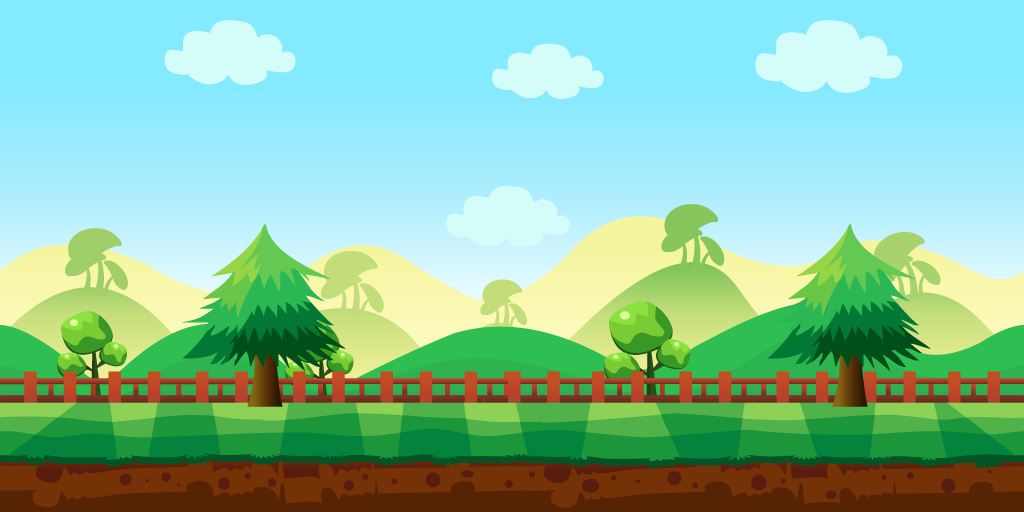
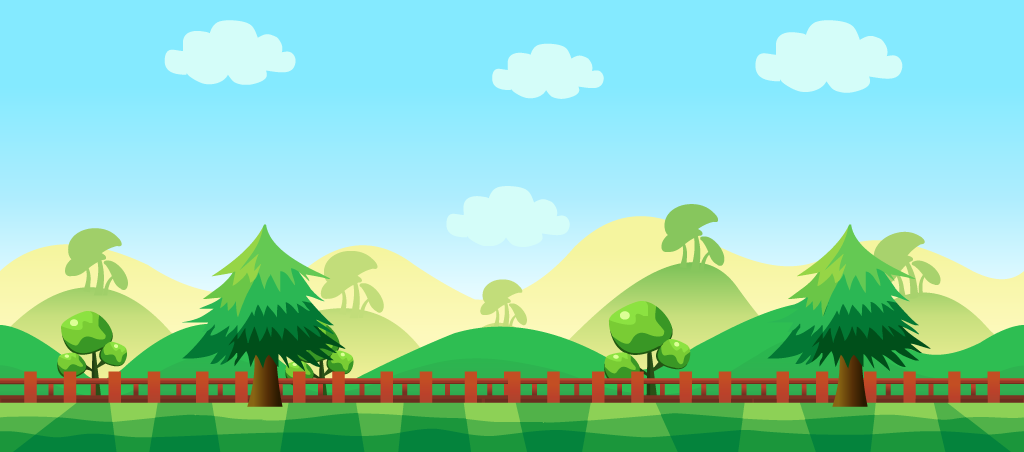
Fixed ground, fixed robot body size physics.

diff --git a/states/play.js b/states/play.js
@@ -1,0 +1,115 @@
+Play = function(game) {
+  this.game = game;
+  // this.boy = new Player(game);
+  // this.girl = new Girl(game);
+  // this.bg = null;
+  // this.ground = null;
+
+  this.platforms = null;
+  this.robot = null;
+  this.cursors = null;
+  this.score = 0;
+  this.scoreText = null;
+  this.stars = null;
+  this.bg = null;
+  this.ground = null;
+  this.diamond = null;
+}
+
+Play.prototype = {
+  create: function() {
+    
+    // this.bg = this.game.add.tileSprite(0, 0, 438, 136, 'background');
+    // this.ground = this.game.add.tileSprite(0, 125, 438, 44, 'ground');
+    // this.game.physics.arcade.enable(this.ground);
+    // this.ground.body.allowGravity = false;
+    // this.ground.body.immovable = true;
+    // this.ground.body.setSize(this.ground.width, this.ground.height - 10, 0, 10);
+    
+  this.game.physics.startSystem(Phaser.Physics.ARCADE);
+  this.game.input.maxPointers = 1;
+  this.bg = this.game.add.tileSprite(0, 0, 1024, 512, 'bg');
+  this.ground = this.game.add.tileSprite(0, this.game.world.height - 60, 1024, 60, 'ground');
+  this.game.physics.enable(this.ground);
+  this.ground.body.immovable = true;
+  this.diamond = this.game.add.sprite(1000, this.game.world.height - 150, 'diamond');
+  this.game.physics.enable(this.diamond);
+  this.diamond.body.immovable = true;
+  this.diamond.body.velocity.x = -120;
+
+  // this.platforms = game.add.group(); //creating a grouping of similar physics objects
+  // this.platforms.enableBody = true; //enable physics on all members of the group
+  //var ground = this.platforms.create(0, game.world.height - 64, 'ground');
+
+  this.robot = this.game.add.sprite(300, game.world.height - 150, 'robot');
+  this.game.physics.enable(this.robot);
+  this.robot.body.bounce.y = 0.2;
+  this.robot.body.gravity.y = 900;
+  this.robot.body.collideWorldBounds = true;
+  this.robot.anchor.setTo(0.5, 0.5);
+  this.robot.body.setSize(82, 124);
+  this.robot.animations.add('walking', 
+    ['r-run0', 'r-run1', 'r-run2', 'r-run3', 'r-run4', 'r-run5', 'r-run6', 'r-run7'],
+    10, true);
+  // this.robot.animations.add('running', 
+  //   ['r-run0', 'r-run1', 'r-run2', 'r-run3', 'r-run4', 'r-run5', 'r-run6', 'r-run7'],
+  //   this., true);
+
+
+  this.stars = this.game.add.group();
+  this.stars.enableBody = true;
+  for (var i = 0; i < 12; i++){
+    var star = this.stars.create(i*70, 0, 'star');
+    star.body.gravity.y = 6;
+    star.body.bounce.y = 0.7 + Math.random() * 0.2;
+  }
+
+  
+  this.cursors = this.game.input.keyboard.createCursorKeys();
+  this.scoreText = this.game.add.text(16, 16, 'score: 0', {fontSize: '32px', 
+    fill: '#000'});
+  },
+
+  update: function() {
+    this.bg.tilePosition.x -= 2;
+    this.ground.tilePosition.x -=2;
+    this.game.physics.arcade.collide(this.robot, this.ground);
+    this.game.physics.arcade.collide(this.stars, this.ground);
+    this.game.physics.arcade.collide(this.diamond, this.robot);
+    this.game.physics.arcade.overlap(this.robot, this.stars, this.collectStar, null, this);
+
+    this.robot.body.velocity.x = 0;
+    this.robot.animations.play('walking');
+
+    
+    if (this.cursors.left.isDown) {
+      this.robot.scale.x = -1;
+      //this.robot.animations.play('walking');
+      this.robot.body.velocity.x = -250;
+    } else if (this.cursors.right.isDown) {
+      this.robot.body.velocity.x = 250;
+      this.robot.scale.x = 1;
+      //this.robot.animations.play('walking');
+    } else {
+      //this.robot.animations.play('walking');
+      // robot.animations.stop();
+      // robot.frameName = 'r-idle0';
+    }
+    if (this.cursors.up.isDown && this.robot.body.touching.down) {
+      this.robot.body.velocity.y = -550;
+      console.log(this.robot.position, this.robot.body.width);
+    }
+
+    // function collectStar (player, star) {
+    //   star.kill() // Remove sprite from game
+    //   this.score += 10;
+    //   this.scoreText.text = 'Score: ' + this.score;
+    // }
+  },
+
+  collectStar: function(player, star) {
+      star.kill() // Remove sprite from game
+      this.score += 10;
+      this.scoreText.text = 'Score: ' + this.score;
+  }
+}

diff --git a/states/load.js b/states/load.js
@@ -1,0 +1,20 @@
+Load = function(game) {
+  this.game = game;
+}
+
+Load.prototype = {
+  preload: function() {
+    game.load.image('bg', 'assets/fence-background.png')
+    game.load.image('ground', 'assets/ground.png');
+    game.load.image('star', 'assets/star.png');
+    game.load.image('diamond', 'assets/diamond.png');
+    game.load.spritesheet('dude', 'assets/dude.png', 32, 48);
+    game.load.atlasJSONHash('robot', 'assets/robot-spritesheet-copy.png', 
+    'assets/robot-sprite-copy.json');
+  },
+
+  create: function() {
+    // this.game.stage.backgroundColor = '000000';
+    this.game.state.start('menu');
+  }
+}

diff --git a/states/menu.js b/states/menu.js
@@ -1,0 +1,19 @@
+Menu = function(game) {
+  this.game = game;
+}
+
+Menu.prototype = {
+  create: function() {
+    var title = this.game.add.text(this.game.world.width / 2, this.game.world.height / 2, 'Math Chase\nHit space to continue', { font: '35px Arial', fill: '#ffffff', align: 'center' });
+    title.anchor.setTo(0.5, 0.5);
+    
+    var space = this.game.input.keyboard.addKey(Phaser.KeyCode.SPACEBAR);
+    space.onDown.addOnce(this.start, this);
+    this.game.input.onDown.addOnce(this.start, this);
+
+  },
+  
+  start: function() {
+    this.game.state.start('play');
+  }
+}

diff --git a/states/boot.js b/states/boot.js
@@ -1,0 +1,20 @@
+Boot = function(game) {
+  this.game = game;
+}
+
+Boot.prototype = {
+  create: function() {
+
+    // this.game.input.maxPointers = 1;
+    
+    // this.game.scale.scaleMode = Phaser.ScaleManager.SHOW_ALL;
+    // this.scale.pageAlignHorizontally = true;
+    // this.scale.pageAlignVertically = true;
+    // this.scale.setScreenSize(true);
+
+    // this.game.physics.startSystem(Phaser.Physics.ARCADE);
+    // this.game.physics.arcade.gravity.y = 300;
+
+    this.game.state.start('load');
+  }
+}

diff --git a/index.html b/index.html
@@ -10,7 +10,11 @@
 <div id="div2"></div>
 <div id="div3"></div>
 
-<script type="text/javascript" src="js/phaser.min.js"></script>
-<script type="text/javascript" src="js/script.js"></script>
+  <script src="//cdn.jsdelivr.net/phaser/2.4.6/phaser.min.js"></script>
+  <script src = "states/boot.js"></script>
+  <script src = "states/load.js"></script>
+  <script src = "states/menu.js"></script>
+  <script src = "states/play.js"></script>
+  <script type="text/javascript" src="game.js"></script>
 </body>
 </html>

diff --git a/states/lose.js b/states/lose.js
@@ -1,0 +1,17 @@
+Lose = function(game) {
+  this.game = game;
+}
+
+Lose.prototype = {
+  create: function() {
+    console.log('menu create');
+    var title = this.game.add.text(this.game.world.width / 2, this.game.world.height / 2, 'You Lose!\nClick to play again!', { font: '35px Arial', fill: '#ffffff', align: 'center' });
+    title.anchor.setTo(0.5, 0.5);
+    
+    this.game.input.onDown.addOnce(this.start, this);
+  },
+  
+  start: function() {
+    this.game.state.start('menu');
+  }
+}

diff --git a/states/win.js b/states/win.js
@@ -1,0 +1,17 @@
+Win = function(game) {
+  this.game = game;
+}
+
+Win.prototype = {
+  create: function() {
+    console.log('menu create');
+    var title = this.game.add.text(this.game.world.width / 2, this.game.world.height / 2, 'You Win!\nClick to play again!', { font: '35px Arial', fill: '#ffffff', align: 'center' });
+    title.anchor.setTo(0.5, 0.5);
+    
+    this.game.input.onDown.addOnce(this.start, this);
+  },
+  
+  start: function() {
+    this.game.state.start('menu');
+  }
+}

diff --git a/game.js b/game.js
@@ -1,0 +1,12 @@
+// var game = new Phaser.Game(438, 160, Phaser.CANVAS);
+var game = new Phaser.Game(1024, 512, Phaser.AUTO, 'div2');
+
+
+game.state.add('boot', new Boot(game));
+game.state.add('load', new Load(game));
+game.state.add('menu', new Menu(game));
+game.state.add('play', new Play(game));
+// game.state.add('win', new Win(game));
+// game.state.add('lose', new Lose(game));
+
+game.state.start('boot');

diff --git a/js/script.js b/js/script.js
@@ -1,4 +1,3 @@
-
 var game = new Phaser.Game(1024, 512, Phaser.AUTO, 'div2', { preload: preload, create: create, update: update });
 var platforms;
 var player;
